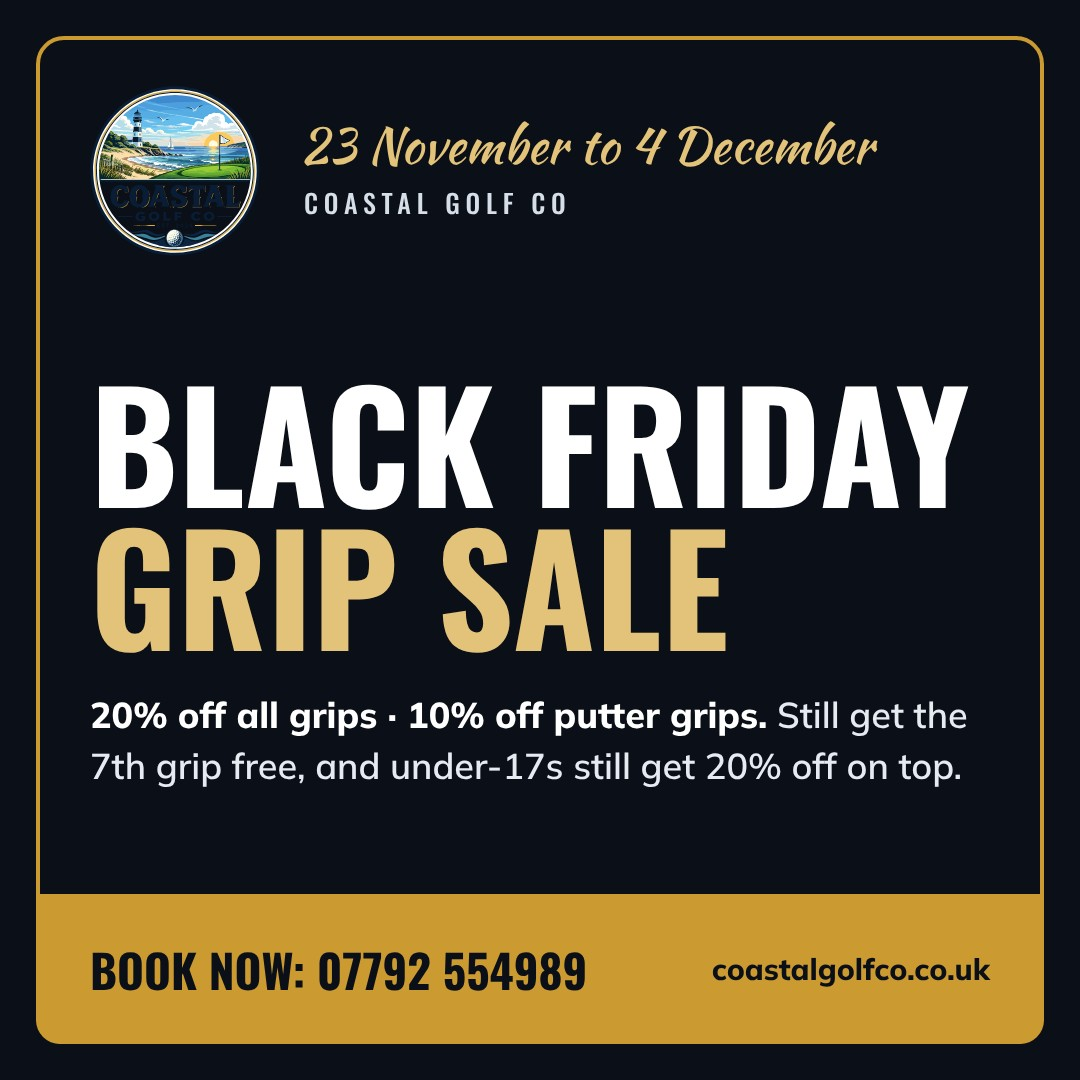
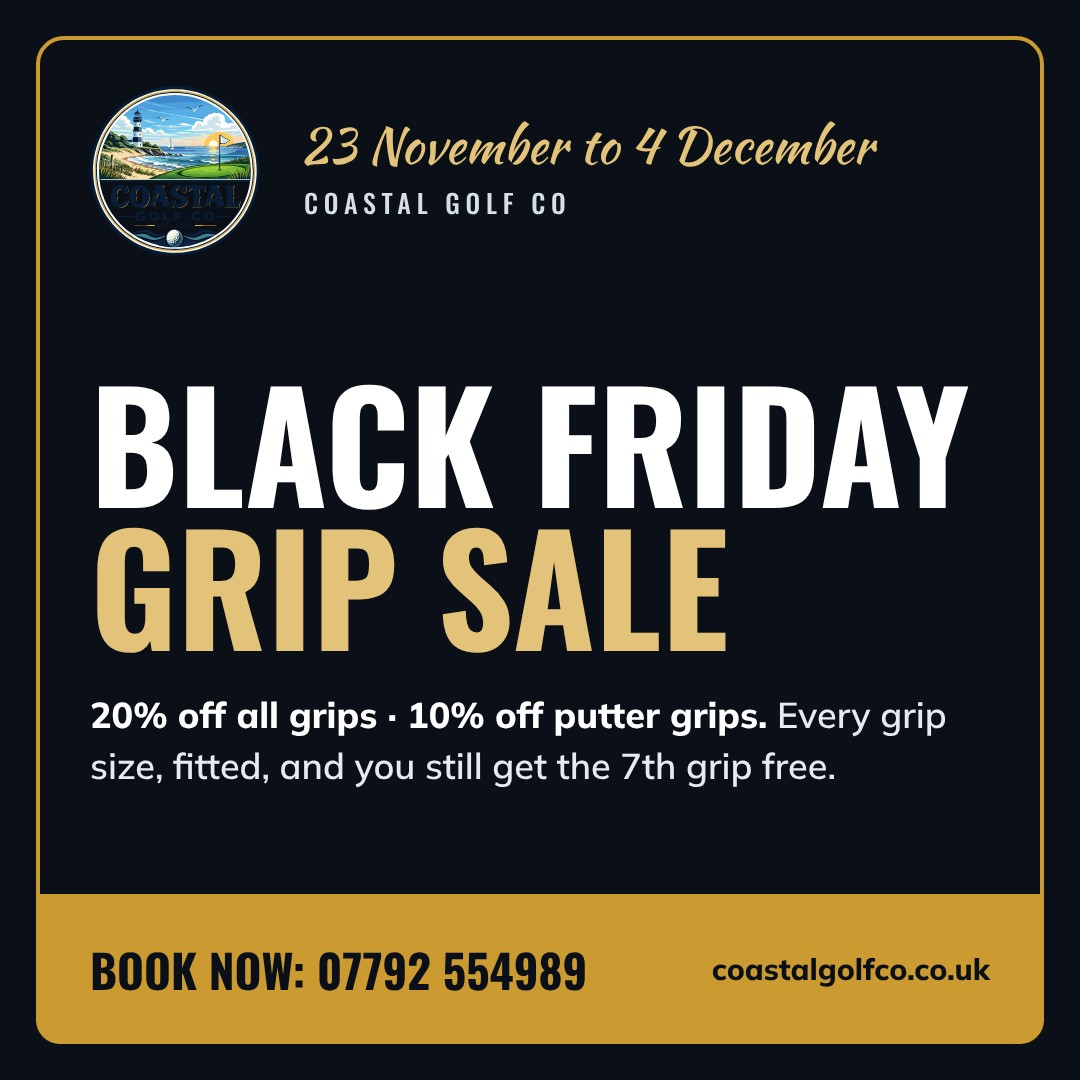
Black Friday: under-17s discount not combined with the sale; updated launch image
Claude-Session: https://claude.ai/code/session_01EwcVxEvD4gd3GovYPkWjZj

Changed region(s): [[0.0917, 0.6417, 0.8861, 0.7333]]

diff --git a/services/regrips/index.html b/services/regrips/index.html
@@ -805,6 +805,7 @@ footer .base{display:flex;justify-content:space-between;gap:16px;flex-wrap:wrap;
 .calc{display:grid;grid-template-columns:1.25fr 1fr;gap:0;margin-top:40px;border-radius:20px;overflow:hidden;box-shadow:0 20px 44px rgba(1,22,46,.12);border:1px solid var(--line)}
 .calc-in{background:var(--card);padding:36px;display:flex;flex-direction:column;gap:22px}
 .calc-in h3{font-size:30px}
+.calc .cbfnote{margin:0;font-size:14px;font-weight:700;color:#b3261e}
 .calc .lbl{font-weight:800;font-size:15px;margin-bottom:10px;display:block}
 .stepper{display:flex;align-items:center;gap:14px}
 .stepper button{width:48px;height:48px;border-radius:50%;border:2px solid var(--navy);background:var(--card);font:700 24px/1 var(--display);color:var(--navy);cursor:pointer}
@@ -1005,6 +1006,7 @@ footer .base{display:flex;justify-content:space-between;gap:16px;flex-wrap:wrap;
       <input type="range" class="cr" min="1" max="14" value="7" aria-labelledby="clregrips"></div>
     <div><span class="lbl">Grip type</span><div class="chipset" role="radiogroup"><label><input type="radio" name="gregrips" value="8" data-kn="calc.std" data-name="Our grips, any size" checked><span>Our grips, any size</span><b>£<span data-kn="calc.std">8</span></b></label><label><input type="radio" name="gregrips" value="4" data-kn="calc.own" data-name="Your own grips"><span>Your own grips</span><b>£<span data-kn="calc.own">4</span></b></label></div></div>
     <label class="chk"><input type="checkbox" class="cpt">Add a putter grip (from £<span data-kn="calc.putter">18</span>)</label>
+    <p class="cbfnote" hidden>Black Friday prices can't be combined with the under-17s discount.</p>
     <label>Discount<select class="cdisc"><option value="0">No discount</option><option value="20">Under 17 (20%)</option></select></label>
   </div>
   <div class="calc-out" aria-live="polite">
@@ -1092,6 +1094,10 @@ footer .base{display:flex;justify-content:space-between;gap:16px;flex-wrap:wrap;
       });
     };
     window.CGC_BFP();
+    /* the under-17s discount doesn't stack with the sale */
+    var w2 = document.createTreeWalker(document.body, NodeFilter.SHOW_TEXT), jn = [], n2;
+    while ((n2 = w2.nextNode())) if (/20% off (for )?under[- ]17s|Under-17s get 20% off|^For all juniors under 17$/i.test(n2.nodeValue) && !/Black Friday/.test(n2.nodeValue)) jn.push(n2);
+    jn.forEach(function(t){ t.nodeValue = t.nodeValue.replace(/\.?\s*$/, '') + ' (not during the Black Friday sale)' + (/\.\s*$/.test(t.nodeValue) ? '. ' : ''); });
   })();
 
 (function(){
@@ -1433,6 +1439,7 @@ footer .base{display:flex;justify-content:space-between;gap:16px;flex-wrap:wrap;
       var g = c.querySelector('input[type=radio]:checked'), p = +g.value, name = g.getAttribute('data-name');
       var free = Math.floor(n / 7), put = c.querySelector('.cpt').checked ? +(c.querySelector('.cprow [data-kn]').textContent) || 18 : 0, d = +c.querySelector('.cdisc').value;
       var bf = window.CGC_BF, std = g.getAttribute('data-kn') === 'calc.std', bfs = bf ? (std ? (n - free) * p * bf.g / 100 : 0) + put * bf.p / 100 : 0;
+      if (bf){ var ds = c.querySelector('.cdisc'); ds.value = '0'; ds.disabled = true; d = 0; var nt = c.querySelector('.cbfnote'); if (nt) nt.hidden = false; }
       var sub = n * p - free * p + put - bfs, disc = sub * d / 100, after = sub - disc, coll = after >= (window.CGC_N ? CGC_N('calc.freeover', 40) : 40) ? 0 : (window.CGC_N ? CGC_N('calc.delivery', 5) : 5), tot = after + coll;
       cn.textContent = n; cr.value = n;
       c.querySelector('.c1').textContent = n + ' × ' + name; c.querySelector('.c1v').textContent = money(n * p);

diff --git a/services/index.html b/services/index.html
@@ -805,6 +805,7 @@ footer .base{display:flex;justify-content:space-between;gap:16px;flex-wrap:wrap;
 .calc{display:grid;grid-template-columns:1.25fr 1fr;gap:0;margin-top:40px;border-radius:20px;overflow:hidden;box-shadow:0 20px 44px rgba(1,22,46,.12);border:1px solid var(--line)}
 .calc-in{background:var(--card);padding:36px;display:flex;flex-direction:column;gap:22px}
 .calc-in h3{font-size:30px}
+.calc .cbfnote{margin:0;font-size:14px;font-weight:700;color:#b3261e}
 .calc .lbl{font-weight:800;font-size:15px;margin-bottom:10px;display:block}
 .stepper{display:flex;align-items:center;gap:14px}
 .stepper button{width:48px;height:48px;border-radius:50%;border:2px solid var(--navy);background:var(--card);font:700 24px/1 var(--display);color:var(--navy);cursor:pointer}
@@ -1004,6 +1005,7 @@ footer .base{display:flex;justify-content:space-between;gap:16px;flex-wrap:wrap;
       <input type="range" class="cr" min="1" max="14" value="7" aria-labelledby="clh"></div>
     <div><span class="lbl">Grip type</span><div class="chipset" role="radiogroup"><label><input type="radio" name="gh" value="8" data-kn="calc.std" data-name="Our grips, any size" checked><span>Our grips, any size</span><b>£<span data-kn="calc.std">8</span></b></label><label><input type="radio" name="gh" value="4" data-kn="calc.own" data-name="Your own grips"><span>Your own grips</span><b>£<span data-kn="calc.own">4</span></b></label></div></div>
     <label class="chk"><input type="checkbox" class="cpt">Add a putter grip (from £<span data-kn="calc.putter">18</span>)</label>
+    <p class="cbfnote" hidden>Black Friday prices can't be combined with the under-17s discount.</p>
     <label>Discount<select class="cdisc"><option value="0">No discount</option><option value="20">Under 17 (20%)</option></select></label>
   </div>
   <div class="calc-out" aria-live="polite">
@@ -1088,6 +1090,10 @@ footer .base{display:flex;justify-content:space-between;gap:16px;flex-wrap:wrap;
       });
     };
     window.CGC_BFP();
+    /* the under-17s discount doesn't stack with the sale */
+    var w2 = document.createTreeWalker(document.body, NodeFilter.SHOW_TEXT), jn = [], n2;
+    while ((n2 = w2.nextNode())) if (/20% off (for )?under[- ]17s|Under-17s get 20% off|^For all juniors under 17$/i.test(n2.nodeValue) && !/Black Friday/.test(n2.nodeValue)) jn.push(n2);
+    jn.forEach(function(t){ t.nodeValue = t.nodeValue.replace(/\.?\s*$/, '') + ' (not during the Black Friday sale)' + (/\.\s*$/.test(t.nodeValue) ? '. ' : ''); });
   })();
 
 (function(){
@@ -1429,6 +1435,7 @@ footer .base{display:flex;justify-content:space-between;gap:16px;flex-wrap:wrap;
       var g = c.querySelector('input[type=radio]:checked'), p = +g.value, name = g.getAttribute('data-name');
       var free = Math.floor(n / 7), put = c.querySelector('.cpt').checked ? +(c.querySelector('.cprow [data-kn]').textContent) || 18 : 0, d = +c.querySelector('.cdisc').value;
       var bf = window.CGC_BF, std = g.getAttribute('data-kn') === 'calc.std', bfs = bf ? (std ? (n - free) * p * bf.g / 100 : 0) + put * bf.p / 100 : 0;
+      if (bf){ var ds = c.querySelector('.cdisc'); ds.value = '0'; ds.disabled = true; d = 0; var nt = c.querySelector('.cbfnote'); if (nt) nt.hidden = false; }
       var sub = n * p - free * p + put - bfs, disc = sub * d / 100, after = sub - disc, coll = after >= (window.CGC_N ? CGC_N('calc.freeover', 40) : 40) ? 0 : (window.CGC_N ? CGC_N('calc.delivery', 5) : 5), tot = after + coll;
       cn.textContent = n; cr.value = n;
       c.querySelector('.c1').textContent = n + ' × ' + name; c.querySelector('.c1v').textContent = money(n * p);

diff --git a/index.html b/index.html
@@ -804,6 +804,7 @@ footer .base{display:flex;justify-content:space-between;gap:16px;flex-wrap:wrap;
 .calc{display:grid;grid-template-columns:1.25fr 1fr;gap:0;margin-top:40px;border-radius:20px;overflow:hidden;box-shadow:0 20px 44px rgba(1,22,46,.12);border:1px solid var(--line)}
 .calc-in{background:var(--card);padding:36px;display:flex;flex-direction:column;gap:22px}
 .calc-in h3{font-size:30px}
+.calc .cbfnote{margin:0;font-size:14px;font-weight:700;color:#b3261e}
 .calc .lbl{font-weight:800;font-size:15px;margin-bottom:10px;display:block}
 .stepper{display:flex;align-items:center;gap:14px}
 .stepper button{width:48px;height:48px;border-radius:50%;border:2px solid var(--navy);background:var(--card);font:700 24px/1 var(--display);color:var(--navy);cursor:pointer}
@@ -1011,7 +1012,7 @@ footer .base{display:flex;justify-content:space-between;gap:16px;flex-wrap:wrap;
       <div class="bfp-k">Monday 23 November to Friday 4 December</div>
       <h2>BLACK FRIDAY <span>GRIP SALE</span></h2>
       <p>Fresh grips for less. Every grip on our list is 20% off and every putter grip is 10% off, fitted and collected from your door.</p>
-      <p class="bfp-s">Stacks with buy 6, get the 7th free, and with 20% off for under-17s. Fitting your own grips stays at the normal price.</p>
+      <p class="bfp-s">You still get the 7th grip free when you buy 6. The under-17s discount can't be combined with the sale, and fitting your own grips stays at the normal price.</p>
       <div class="bfp-b"><a class="btn btn-gold" href="#contact">Book your regrip<svg class="i"><use href="#arrow"/></svg></a><a class="btn bfp-o" href="/services/regrips/">See regrip prices</a></div>
     </div>
     <div class="bfp-r" aria-hidden="true">
@@ -1201,6 +1202,10 @@ footer .base{display:flex;justify-content:space-between;gap:16px;flex-wrap:wrap;
       });
     };
     window.CGC_BFP();
+    /* the under-17s discount doesn't stack with the sale */
+    var w2 = document.createTreeWalker(document.body, NodeFilter.SHOW_TEXT), jn = [], n2;
+    while ((n2 = w2.nextNode())) if (/20% off (for )?under[- ]17s|Under-17s get 20% off|^For all juniors under 17$/i.test(n2.nodeValue) && !/Black Friday/.test(n2.nodeValue)) jn.push(n2);
+    jn.forEach(function(t){ t.nodeValue = t.nodeValue.replace(/\.?\s*$/, '') + ' (not during the Black Friday sale)' + (/\.\s*$/.test(t.nodeValue) ? '. ' : ''); });
   })();
 
 (function(){
@@ -1542,6 +1547,7 @@ footer .base{display:flex;justify-content:space-between;gap:16px;flex-wrap:wrap;
       var g = c.querySelector('input[type=radio]:checked'), p = +g.value, name = g.getAttribute('data-name');
       var free = Math.floor(n / 7), put = c.querySelector('.cpt').checked ? +(c.querySelector('.cprow [data-kn]').textContent) || 18 : 0, d = +c.querySelector('.cdisc').value;
       var bf = window.CGC_BF, std = g.getAttribute('data-kn') === 'calc.std', bfs = bf ? (std ? (n - free) * p * bf.g / 100 : 0) + put * bf.p / 100 : 0;
+      if (bf){ var ds = c.querySelector('.cdisc'); ds.value = '0'; ds.disabled = true; d = 0; var nt = c.querySelector('.cbfnote'); if (nt) nt.hidden = false; }
       var sub = n * p - free * p + put - bfs, disc = sub * d / 100, after = sub - disc, coll = after >= (window.CGC_N ? CGC_N('calc.freeover', 40) : 40) ? 0 : (window.CGC_N ? CGC_N('calc.delivery', 5) : 5), tot = after + coll;
       cn.textContent = n; cr.value = n;
       c.querySelector('.c1').textContent = n + ' × ' + name; c.querySelector('.c1v').textContent = money(n * p);

diff --git a/areas/index.html b/areas/index.html
@@ -804,6 +804,7 @@ footer .base{display:flex;justify-content:space-between;gap:16px;flex-wrap:wrap;
 .calc{display:grid;grid-template-columns:1.25fr 1fr;gap:0;margin-top:40px;border-radius:20px;overflow:hidden;box-shadow:0 20px 44px rgba(1,22,46,.12);border:1px solid var(--line)}
 .calc-in{background:var(--card);padding:36px;display:flex;flex-direction:column;gap:22px}
 .calc-in h3{font-size:30px}
+.calc .cbfnote{margin:0;font-size:14px;font-weight:700;color:#b3261e}
 .calc .lbl{font-weight:800;font-size:15px;margin-bottom:10px;display:block}
 .stepper{display:flex;align-items:center;gap:14px}
 .stepper button{width:48px;height:48px;border-radius:50%;border:2px solid var(--navy);background:var(--card);font:700 24px/1 var(--display);color:var(--navy);cursor:pointer}
@@ -1051,6 +1052,10 @@ footer .base{display:flex;justify-content:space-between;gap:16px;flex-wrap:wrap;
       });
     };
     window.CGC_BFP();
+    /* the under-17s discount doesn't stack with the sale */
+    var w2 = document.createTreeWalker(document.body, NodeFilter.SHOW_TEXT), jn = [], n2;
+    while ((n2 = w2.nextNode())) if (/20% off (for )?under[- ]17s|Under-17s get 20% off|^For all juniors under 17$/i.test(n2.nodeValue) && !/Black Friday/.test(n2.nodeValue)) jn.push(n2);
+    jn.forEach(function(t){ t.nodeValue = t.nodeValue.replace(/\.?\s*$/, '') + ' (not during the Black Friday sale)' + (/\.\s*$/.test(t.nodeValue) ? '. ' : ''); });
   })();
 
 (function(){
@@ -1392,6 +1397,7 @@ footer .base{display:flex;justify-content:space-between;gap:16px;flex-wrap:wrap;
       var g = c.querySelector('input[type=radio]:checked'), p = +g.value, name = g.getAttribute('data-name');
       var free = Math.floor(n / 7), put = c.querySelector('.cpt').checked ? +(c.querySelector('.cprow [data-kn]').textContent) || 18 : 0, d = +c.querySelector('.cdisc').value;
       var bf = window.CGC_BF, std = g.getAttribute('data-kn') === 'calc.std', bfs = bf ? (std ? (n - free) * p * bf.g / 100 : 0) + put * bf.p / 100 : 0;
+      if (bf){ var ds = c.querySelector('.cdisc'); ds.value = '0'; ds.disabled = true; d = 0; var nt = c.querySelector('.cbfnote'); if (nt) nt.hidden = false; }
       var sub = n * p - free * p + put - bfs, disc = sub * d / 100, after = sub - disc, coll = after >= (window.CGC_N ? CGC_N('calc.freeover', 40) : 40) ? 0 : (window.CGC_N ? CGC_N('calc.delivery', 5) : 5), tot = after + coll;
       cn.textContent = n; cr.value = n;
       c.querySelector('.c1').textContent = n + ' × ' + name; c.querySelector('.c1v').textContent = money(n * p);

diff --git a/courses/index.html b/courses/index.html
@@ -804,6 +804,7 @@ footer .base{display:flex;justify-content:space-between;gap:16px;flex-wrap:wrap;
 .calc{display:grid;grid-template-columns:1.25fr 1fr;gap:0;margin-top:40px;border-radius:20px;overflow:hidden;box-shadow:0 20px 44px rgba(1,22,46,.12);border:1px solid var(--line)}
 .calc-in{background:var(--card);padding:36px;display:flex;flex-direction:column;gap:22px}
 .calc-in h3{font-size:30px}
+.calc .cbfnote{margin:0;font-size:14px;font-weight:700;color:#b3261e}
 .calc .lbl{font-weight:800;font-size:15px;margin-bottom:10px;display:block}
 .stepper{display:flex;align-items:center;gap:14px}
 .stepper button{width:48px;height:48px;border-radius:50%;border:2px solid var(--navy);background:var(--card);font:700 24px/1 var(--display);color:var(--navy);cursor:pointer}
@@ -1073,6 +1074,10 @@ footer .base{display:flex;justify-content:space-between;gap:16px;flex-wrap:wrap;
       });
     };
     window.CGC_BFP();
+    /* the under-17s discount doesn't stack with the sale */
+    var w2 = document.createTreeWalker(document.body, NodeFilter.SHOW_TEXT), jn = [], n2;
+    while ((n2 = w2.nextNode())) if (/20% off (for )?under[- ]17s|Under-17s get 20% off|^For all juniors under 17$/i.test(n2.nodeValue) && !/Black Friday/.test(n2.nodeValue)) jn.push(n2);
+    jn.forEach(function(t){ t.nodeValue = t.nodeValue.replace(/\.?\s*$/, '') + ' (not during the Black Friday sale)' + (/\.\s*$/.test(t.nodeValue) ? '. ' : ''); });
   })();
 
 (function(){
@@ -1414,6 +1419,7 @@ footer .base{display:flex;justify-content:space-between;gap:16px;flex-wrap:wrap;
       var g = c.querySelector('input[type=radio]:checked'), p = +g.value, name = g.getAttribute('data-name');
       var free = Math.floor(n / 7), put = c.querySelector('.cpt').checked ? +(c.querySelector('.cprow [data-kn]').textContent) || 18 : 0, d = +c.querySelector('.cdisc').value;
       var bf = window.CGC_BF, std = g.getAttribute('data-kn') === 'calc.std', bfs = bf ? (std ? (n - free) * p * bf.g / 100 : 0) + put * bf.p / 100 : 0;
+      if (bf){ var ds = c.querySelector('.cdisc'); ds.value = '0'; ds.disabled = true; d = 0; var nt = c.querySelector('.cbfnote'); if (nt) nt.hidden = false; }
       var sub = n * p - free * p + put - bfs, disc = sub * d / 100, after = sub - disc, coll = after >= (window.CGC_N ? CGC_N('calc.freeover', 40) : 40) ? 0 : (window.CGC_N ? CGC_N('calc.delivery', 5) : 5), tot = after + coll;
       cn.textContent = n; cr.value = n;
       c.querySelector('.c1').textContent = n + ' × ' + name; c.querySelector('.c1v').textContent = money(n * p);

diff --git a/faq/index.html b/faq/index.html
@@ -805,6 +805,7 @@ footer .base{display:flex;justify-content:space-between;gap:16px;flex-wrap:wrap;
 .calc{display:grid;grid-template-columns:1.25fr 1fr;gap:0;margin-top:40px;border-radius:20px;overflow:hidden;box-shadow:0 20px 44px rgba(1,22,46,.12);border:1px solid var(--line)}
 .calc-in{background:var(--card);padding:36px;display:flex;flex-direction:column;gap:22px}
 .calc-in h3{font-size:30px}
+.calc .cbfnote{margin:0;font-size:14px;font-weight:700;color:#b3261e}
 .calc .lbl{font-weight:800;font-size:15px;margin-bottom:10px;display:block}
 .stepper{display:flex;align-items:center;gap:14px}
 .stepper button{width:48px;height:48px;border-radius:50%;border:2px solid var(--navy);background:var(--card);font:700 24px/1 var(--display);color:var(--navy);cursor:pointer}
@@ -1049,6 +1050,10 @@ footer .base{display:flex;justify-content:space-between;gap:16px;flex-wrap:wrap;
       });
     };
     window.CGC_BFP();
+    /* the under-17s discount doesn't stack with the sale */
+    var w2 = document.createTreeWalker(document.body, NodeFilter.SHOW_TEXT), jn = [], n2;
+    while ((n2 = w2.nextNode())) if (/20% off (for )?under[- ]17s|Under-17s get 20% off|^For all juniors under 17$/i.test(n2.nodeValue) && !/Black Friday/.test(n2.nodeValue)) jn.push(n2);
+    jn.forEach(function(t){ t.nodeValue = t.nodeValue.replace(/\.?\s*$/, '') + ' (not during the Black Friday sale)' + (/\.\s*$/.test(t.nodeValue) ? '. ' : ''); });
   })();
 
 (function(){
@@ -1390,6 +1395,7 @@ footer .base{display:flex;justify-content:space-between;gap:16px;flex-wrap:wrap;
       var g = c.querySelector('input[type=radio]:checked'), p = +g.value, name = g.getAttribute('data-name');
       var free = Math.floor(n / 7), put = c.querySelector('.cpt').checked ? +(c.querySelector('.cprow [data-kn]').textContent) || 18 : 0, d = +c.querySelector('.cdisc').value;
       var bf = window.CGC_BF, std = g.getAttribute('data-kn') === 'calc.std', bfs = bf ? (std ? (n - free) * p * bf.g / 100 : 0) + put * bf.p / 100 : 0;
+      if (bf){ var ds = c.querySelector('.cdisc'); ds.value = '0'; ds.disabled = true; d = 0; var nt = c.querySelector('.cbfnote'); if (nt) nt.hidden = false; }
       var sub = n * p - free * p + put - bfs, disc = sub * d / 100, after = sub - disc, coll = after >= (window.CGC_N ? CGC_N('calc.freeover', 40) : 40) ? 0 : (window.CGC_N ? CGC_N('calc.delivery', 5) : 5), tot = after + coll;
       cn.textContent = n; cr.value = n;
       c.querySelector('.c1').textContent = n + ' × ' + name; c.querySelector('.c1v').textContent = money(n * p);

diff --git a/journal/index.html b/journal/index.html
@@ -804,6 +804,7 @@ footer .base{display:flex;justify-content:space-between;gap:16px;flex-wrap:wrap;
 .calc{display:grid;grid-template-columns:1.25fr 1fr;gap:0;margin-top:40px;border-radius:20px;overflow:hidden;box-shadow:0 20px 44px rgba(1,22,46,.12);border:1px solid var(--line)}
 .calc-in{background:var(--card);padding:36px;display:flex;flex-direction:column;gap:22px}
 .calc-in h3{font-size:30px}
+.calc .cbfnote{margin:0;font-size:14px;font-weight:700;color:#b3261e}
 .calc .lbl{font-weight:800;font-size:15px;margin-bottom:10px;display:block}
 .stepper{display:flex;align-items:center;gap:14px}
 .stepper button{width:48px;height:48px;border-radius:50%;border:2px solid var(--navy);background:var(--card);font:700 24px/1 var(--display);color:var(--navy);cursor:pointer}
@@ -1048,6 +1049,10 @@ footer .base{display:flex;justify-content:space-between;gap:16px;flex-wrap:wrap;
       });
     };
     window.CGC_BFP();
+    /* the under-17s discount doesn't stack with the sale */
+    var w2 = document.createTreeWalker(document.body, NodeFilter.SHOW_TEXT), jn = [], n2;
+    while ((n2 = w2.nextNode())) if (/20% off (for )?under[- ]17s|Under-17s get 20% off|^For all juniors under 17$/i.test(n2.nodeValue) && !/Black Friday/.test(n2.nodeValue)) jn.push(n2);
+    jn.forEach(function(t){ t.nodeValue = t.nodeValue.replace(/\.?\s*$/, '') + ' (not during the Black Friday sale)' + (/\.\s*$/.test(t.nodeValue) ? '. ' : ''); });
   })();
 
 (function(){
@@ -1389,6 +1394,7 @@ footer .base{display:flex;justify-content:space-between;gap:16px;flex-wrap:wrap;
       var g = c.querySelector('input[type=radio]:checked'), p = +g.value, name = g.getAttribute('data-name');
       var free = Math.floor(n / 7), put = c.querySelector('.cpt').checked ? +(c.querySelector('.cprow [data-kn]').textContent) || 18 : 0, d = +c.querySelector('.cdisc').value;
       var bf = window.CGC_BF, std = g.getAttribute('data-kn') === 'calc.std', bfs = bf ? (std ? (n - free) * p * bf.g / 100 : 0) + put * bf.p / 100 : 0;
+      if (bf){ var ds = c.querySelector('.cdisc'); ds.value = '0'; ds.disabled = true; d = 0; var nt = c.querySelector('.cbfnote'); if (nt) nt.hidden = false; }
       var sub = n * p - free * p + put - bfs, disc = sub * d / 100, after = sub - disc, coll = after >= (window.CGC_N ? CGC_N('calc.freeover', 40) : 40) ? 0 : (window.CGC_N ? CGC_N('calc.delivery', 5) : 5), tot = after + coll;
       cn.textContent = n; cr.value = n;
       c.querySelector('.c1').textContent = n + ' × ' + name; c.querySelector('.c1v').textContent = money(n * p);

diff --git a/journal/post/index.html b/journal/post/index.html
@@ -803,6 +803,7 @@ footer .base{display:flex;justify-content:space-between;gap:16px;flex-wrap:wrap;
 .calc{display:grid;grid-template-columns:1.25fr 1fr;gap:0;margin-top:40px;border-radius:20px;overflow:hidden;box-shadow:0 20px 44px rgba(1,22,46,.12);border:1px solid var(--line)}
 .calc-in{background:var(--card);padding:36px;display:flex;flex-direction:column;gap:22px}
 .calc-in h3{font-size:30px}
+.calc .cbfnote{margin:0;font-size:14px;font-weight:700;color:#b3261e}
 .calc .lbl{font-weight:800;font-size:15px;margin-bottom:10px;display:block}
 .stepper{display:flex;align-items:center;gap:14px}
 .stepper button{width:48px;height:48px;border-radius:50%;border:2px solid var(--navy);background:var(--card);font:700 24px/1 var(--display);color:var(--navy);cursor:pointer}
@@ -1052,6 +1053,10 @@ footer .base{display:flex;justify-content:space-between;gap:16px;flex-wrap:wrap;
       });
     };
     window.CGC_BFP();
+    /* the under-17s discount doesn't stack with the sale */
+    var w2 = document.createTreeWalker(document.body, NodeFilter.SHOW_TEXT), jn = [], n2;
+    while ((n2 = w2.nextNode())) if (/20% off (for )?under[- ]17s|Under-17s get 20% off|^For all juniors under 17$/i.test(n2.nodeValue) && !/Black Friday/.test(n2.nodeValue)) jn.push(n2);
+    jn.forEach(function(t){ t.nodeValue = t.nodeValue.replace(/\.?\s*$/, '') + ' (not during the Black Friday sale)' + (/\.\s*$/.test(t.nodeValue) ? '. ' : ''); });
   })();
 
 (function(){
@@ -1393,6 +1398,7 @@ footer .base{display:flex;justify-content:space-between;gap:16px;flex-wrap:wrap;
       var g = c.querySelector('input[type=radio]:checked'), p = +g.value, name = g.getAttribute('data-name');
       var free = Math.floor(n / 7), put = c.querySelector('.cpt').checked ? +(c.querySelector('.cprow [data-kn]').textContent) || 18 : 0, d = +c.querySelector('.cdisc').value;
       var bf = window.CGC_BF, std = g.getAttribute('data-kn') === 'calc.std', bfs = bf ? (std ? (n - free) * p * bf.g / 100 : 0) + put * bf.p / 100 : 0;
+      if (bf){ var ds = c.querySelector('.cdisc'); ds.value = '0'; ds.disabled = true; d = 0; var nt = c.querySelector('.cbfnote'); if (nt) nt.hidden = false; }
       var sub = n * p - free * p + put - bfs, disc = sub * d / 100, after = sub - disc, coll = after >= (window.CGC_N ? CGC_N('calc.freeover', 40) : 40) ? 0 : (window.CGC_N ? CGC_N('calc.delivery', 5) : 5), tot = after + coll;
       cn.textContent = n; cr.value = n;
       c.querySelector('.c1').textContent = n + ' × ' + name; c.querySelector('.c1v').textContent = money(n * p);

diff --git a/partners/index.html b/partners/index.html
@@ -804,6 +804,7 @@ footer .base{display:flex;justify-content:space-between;gap:16px;flex-wrap:wrap;
 .calc{display:grid;grid-template-columns:1.25fr 1fr;gap:0;margin-top:40px;border-radius:20px;overflow:hidden;box-shadow:0 20px 44px rgba(1,22,46,.12);border:1px solid var(--line)}
 .calc-in{background:var(--card);padding:36px;display:flex;flex-direction:column;gap:22px}
 .calc-in h3{font-size:30px}
+.calc .cbfnote{margin:0;font-size:14px;font-weight:700;color:#b3261e}
 .calc .lbl{font-weight:800;font-size:15px;margin-bottom:10px;display:block}
 .stepper{display:flex;align-items:center;gap:14px}
 .stepper button{width:48px;height:48px;border-radius:50%;border:2px solid var(--navy);background:var(--card);font:700 24px/1 var(--display);color:var(--navy);cursor:pointer}
@@ -1057,6 +1058,10 @@ footer .base{display:flex;justify-content:space-between;gap:16px;flex-wrap:wrap;
       });
     };
     window.CGC_BFP();
+    /* the under-17s discount doesn't stack with the sale */
+    var w2 = document.createTreeWalker(document.body, NodeFilter.SHOW_TEXT), jn = [], n2;
+    while ((n2 = w2.nextNode())) if (/20% off (for )?under[- ]17s|Under-17s get 20% off|^For all juniors under 17$/i.test(n2.nodeValue) && !/Black Friday/.test(n2.nodeValue)) jn.push(n2);
+    jn.forEach(function(t){ t.nodeValue = t.nodeValue.replace(/\.?\s*$/, '') + ' (not during the Black Friday sale)' + (/\.\s*$/.test(t.nodeValue) ? '. ' : ''); });
   })();
 
 (function(){
@@ -1398,6 +1403,7 @@ footer .base{display:flex;justify-content:space-between;gap:16px;flex-wrap:wrap;
       var g = c.querySelector('input[type=radio]:checked'), p = +g.value, name = g.getAttribute('data-name');
       var free = Math.floor(n / 7), put = c.querySelector('.cpt').checked ? +(c.querySelector('.cprow [data-kn]').textContent) || 18 : 0, d = +c.querySelector('.cdisc').value;
       var bf = window.CGC_BF, std = g.getAttribute('data-kn') === 'calc.std', bfs = bf ? (std ? (n - free) * p * bf.g / 100 : 0) + put * bf.p / 100 : 0;
+      if (bf){ var ds = c.querySelector('.cdisc'); ds.value = '0'; ds.disabled = true; d = 0; var nt = c.querySelector('.cbfnote'); if (nt) nt.hidden = false; }
       var sub = n * p - free * p + put - bfs, disc = sub * d / 100, after = sub - disc, coll = after >= (window.CGC_N ? CGC_N('calc.freeover', 40) : 40) ? 0 : (window.CGC_N ? CGC_N('calc.delivery', 5) : 5), tot = after + coll;
       cn.textContent = n; cr.value = n;
       c.querySelector('.c1').textContent = n + ' × ' + name; c.querySelector('.c1v').textContent = money(n * p);

diff --git a/privacy/index.html b/privacy/index.html
@@ -804,6 +804,7 @@ footer .base{display:flex;justify-content:space-between;gap:16px;flex-wrap:wrap;
 .calc{display:grid;grid-template-columns:1.25fr 1fr;gap:0;margin-top:40px;border-radius:20px;overflow:hidden;box-shadow:0 20px 44px rgba(1,22,46,.12);border:1px solid var(--line)}
 .calc-in{background:var(--card);padding:36px;display:flex;flex-direction:column;gap:22px}
 .calc-in h3{font-size:30px}
+.calc .cbfnote{margin:0;font-size:14px;font-weight:700;color:#b3261e}
 .calc .lbl{font-weight:800;font-size:15px;margin-bottom:10px;display:block}
 .stepper{display:flex;align-items:center;gap:14px}
 .stepper button{width:48px;height:48px;border-radius:50%;border:2px solid var(--navy);background:var(--card);font:700 24px/1 var(--display);color:var(--navy);cursor:pointer}
@@ -1045,6 +1046,10 @@ footer .base{display:flex;justify-content:space-between;gap:16px;flex-wrap:wrap;
       });
     };
     window.CGC_BFP();
+    /* the under-17s discount doesn't stack with the sale */
+    var w2 = document.createTreeWalker(document.body, NodeFilter.SHOW_TEXT), jn = [], n2;
+    while ((n2 = w2.nextNode())) if (/20% off (for )?under[- ]17s|Under-17s get 20% off|^For all juniors under 17$/i.test(n2.nodeValue) && !/Black Friday/.test(n2.nodeValue)) jn.push(n2);
+    jn.forEach(function(t){ t.nodeValue = t.nodeValue.replace(/\.?\s*$/, '') + ' (not during the Black Friday sale)' + (/\.\s*$/.test(t.nodeValue) ? '. ' : ''); });
   })();
 
 (function(){
@@ -1386,6 +1391,7 @@ footer .base{display:flex;justify-content:space-between;gap:16px;flex-wrap:wrap;
       var g = c.querySelector('input[type=radio]:checked'), p = +g.value, name = g.getAttribute('data-name');
       var free = Math.floor(n / 7), put = c.querySelector('.cpt').checked ? +(c.querySelector('.cprow [data-kn]').textContent) || 18 : 0, d = +c.querySelector('.cdisc').value;
       var bf = window.CGC_BF, std = g.getAttribute('data-kn') === 'calc.std', bfs = bf ? (std ? (n - free) * p * bf.g / 100 : 0) + put * bf.p / 100 : 0;
+      if (bf){ var ds = c.querySelector('.cdisc'); ds.value = '0'; ds.disabled = true; d = 0; var nt = c.querySelector('.cbfnote'); if (nt) nt.hidden = false; }
       var sub = n * p - free * p + put - bfs, disc = sub * d / 100, after = sub - disc, coll = after >= (window.CGC_N ? CGC_N('calc.freeover', 40) : 40) ? 0 : (window.CGC_N ? CGC_N('calc.delivery', 5) : 5), tot = after + coll;
       cn.textContent = n; cr.value = n;
       c.querySelector('.c1').textContent = n + ' × ' + name; c.querySelector('.c1v').textContent = money(n * p);

diff --git a/services/club-mot/index.html b/services/club-mot/index.html
@@ -805,6 +805,7 @@ footer .base{display:flex;justify-content:space-between;gap:16px;flex-wrap:wrap;
 .calc{display:grid;grid-template-columns:1.25fr 1fr;gap:0;margin-top:40px;border-radius:20px;overflow:hidden;box-shadow:0 20px 44px rgba(1,22,46,.12);border:1px solid var(--line)}
 .calc-in{background:var(--card);padding:36px;display:flex;flex-direction:column;gap:22px}
 .calc-in h3{font-size:30px}
+.calc .cbfnote{margin:0;font-size:14px;font-weight:700;color:#b3261e}
 .calc .lbl{font-weight:800;font-size:15px;margin-bottom:10px;display:block}
 .stepper{display:flex;align-items:center;gap:14px}
 .stepper button{width:48px;height:48px;border-radius:50%;border:2px solid var(--navy);background:var(--card);font:700 24px/1 var(--display);color:var(--navy);cursor:pointer}
@@ -1065,6 +1066,10 @@ footer .base{display:flex;justify-content:space-between;gap:16px;flex-wrap:wrap;
       });
     };
     window.CGC_BFP();
+    /* the under-17s discount doesn't stack with the sale */
+    var w2 = document.createTreeWalker(document.body, NodeFilter.SHOW_TEXT), jn = [], n2;
+    while ((n2 = w2.nextNode())) if (/20% off (for )?under[- ]17s|Under-17s get 20% off|^For all juniors under 17$/i.test(n2.nodeValue) && !/Black Friday/.test(n2.nodeValue)) jn.push(n2);
+    jn.forEach(function(t){ t.nodeValue = t.nodeValue.replace(/\.?\s*$/, '') + ' (not during the Black Friday sale)' + (/\.\s*$/.test(t.nodeValue) ? '. ' : ''); });
   })();
 
 (function(){
@@ -1406,6 +1411,7 @@ footer .base{display:flex;justify-content:space-between;gap:16px;flex-wrap:wrap;
       var g = c.querySelector('input[type=radio]:checked'), p = +g.value, name = g.getAttribute('data-name');
       var free = Math.floor(n / 7), put = c.querySelector('.cpt').checked ? +(c.querySelector('.cprow [data-kn]').textContent) || 18 : 0, d = +c.querySelector('.cdisc').value;
       var bf = window.CGC_BF, std = g.getAttribute('data-kn') === 'calc.std', bfs = bf ? (std ? (n - free) * p * bf.g / 100 : 0) + put * bf.p / 100 : 0;
+      if (bf){ var ds = c.querySelector('.cdisc'); ds.value = '0'; ds.disabled = true; d = 0; var nt = c.querySelector('.cbfnote'); if (nt) nt.hidden = false; }
       var sub = n * p - free * p + put - bfs, disc = sub * d / 100, after = sub - disc, coll = after >= (window.CGC_N ? CGC_N('calc.freeover', 40) : 40) ? 0 : (window.CGC_N ? CGC_N('calc.delivery', 5) : 5), tot = after + coll;
       cn.textContent = n; cr.value = n;
       c.querySelector('.c1').textContent = n + ' × ' + name; c.querySelector('.c1v').textContent = money(n * p);

diff --git a/services/custom-logo/index.html b/services/custom-logo/index.html
@@ -805,6 +805,7 @@ footer .base{display:flex;justify-content:space-between;gap:16px;flex-wrap:wrap;
 .calc{display:grid;grid-template-columns:1.25fr 1fr;gap:0;margin-top:40px;border-radius:20px;overflow:hidden;box-shadow:0 20px 44px rgba(1,22,46,.12);border:1px solid var(--line)}
 .calc-in{background:var(--card);padding:36px;display:flex;flex-direction:column;gap:22px}
 .calc-in h3{font-size:30px}
+.calc .cbfnote{margin:0;font-size:14px;font-weight:700;color:#b3261e}
 .calc .lbl{font-weight:800;font-size:15px;margin-bottom:10px;display:block}
 .stepper{display:flex;align-items:center;gap:14px}
 .stepper button{width:48px;height:48px;border-radius:50%;border:2px solid var(--navy);background:var(--card);font:700 24px/1 var(--display);color:var(--navy);cursor:pointer}
@@ -1052,6 +1053,10 @@ footer .base{display:flex;justify-content:space-between;gap:16px;flex-wrap:wrap;
       });
     };
     window.CGC_BFP();
+    /* the under-17s discount doesn't stack with the sale */
+    var w2 = document.createTreeWalker(document.body, NodeFilter.SHOW_TEXT), jn = [], n2;
+    while ((n2 = w2.nextNode())) if (/20% off (for )?under[- ]17s|Under-17s get 20% off|^For all juniors under 17$/i.test(n2.nodeValue) && !/Black Friday/.test(n2.nodeValue)) jn.push(n2);
+    jn.forEach(function(t){ t.nodeValue = t.nodeValue.replace(/\.?\s*$/, '') + ' (not during the Black Friday sale)' + (/\.\s*$/.test(t.nodeValue) ? '. ' : ''); });
   })();
 
 (function(){
@@ -1393,6 +1398,7 @@ footer .base{display:flex;justify-content:space-between;gap:16px;flex-wrap:wrap;
       var g = c.querySelector('input[type=radio]:checked'), p = +g.value, name = g.getAttribute('data-name');
       var free = Math.floor(n / 7), put = c.querySelector('.cpt').checked ? +(c.querySelector('.cprow [data-kn]').textContent) || 18 : 0, d = +c.querySelector('.cdisc').value;
       var bf = window.CGC_BF, std = g.getAttribute('data-kn') === 'calc.std', bfs = bf ? (std ? (n - free) * p * bf.g / 100 : 0) + put * bf.p / 100 : 0;
+      if (bf){ var ds = c.querySelector('.cdisc'); ds.value = '0'; ds.disabled = true; d = 0; var nt = c.querySelector('.cbfnote'); if (nt) nt.hidden = false; }
       var sub = n * p - free * p + put - bfs, disc = sub * d / 100, after = sub - disc, coll = after >= (window.CGC_N ? CGC_N('calc.freeover', 40) : 40) ? 0 : (window.CGC_N ? CGC_N('calc.delivery', 5) : 5), tot = after + coll;
       cn.textContent = n; cr.value = n;
       c.querySelector('.c1').textContent = n + ' × ' + name; c.querySelector('.c1v').textContent = money(n * p);
